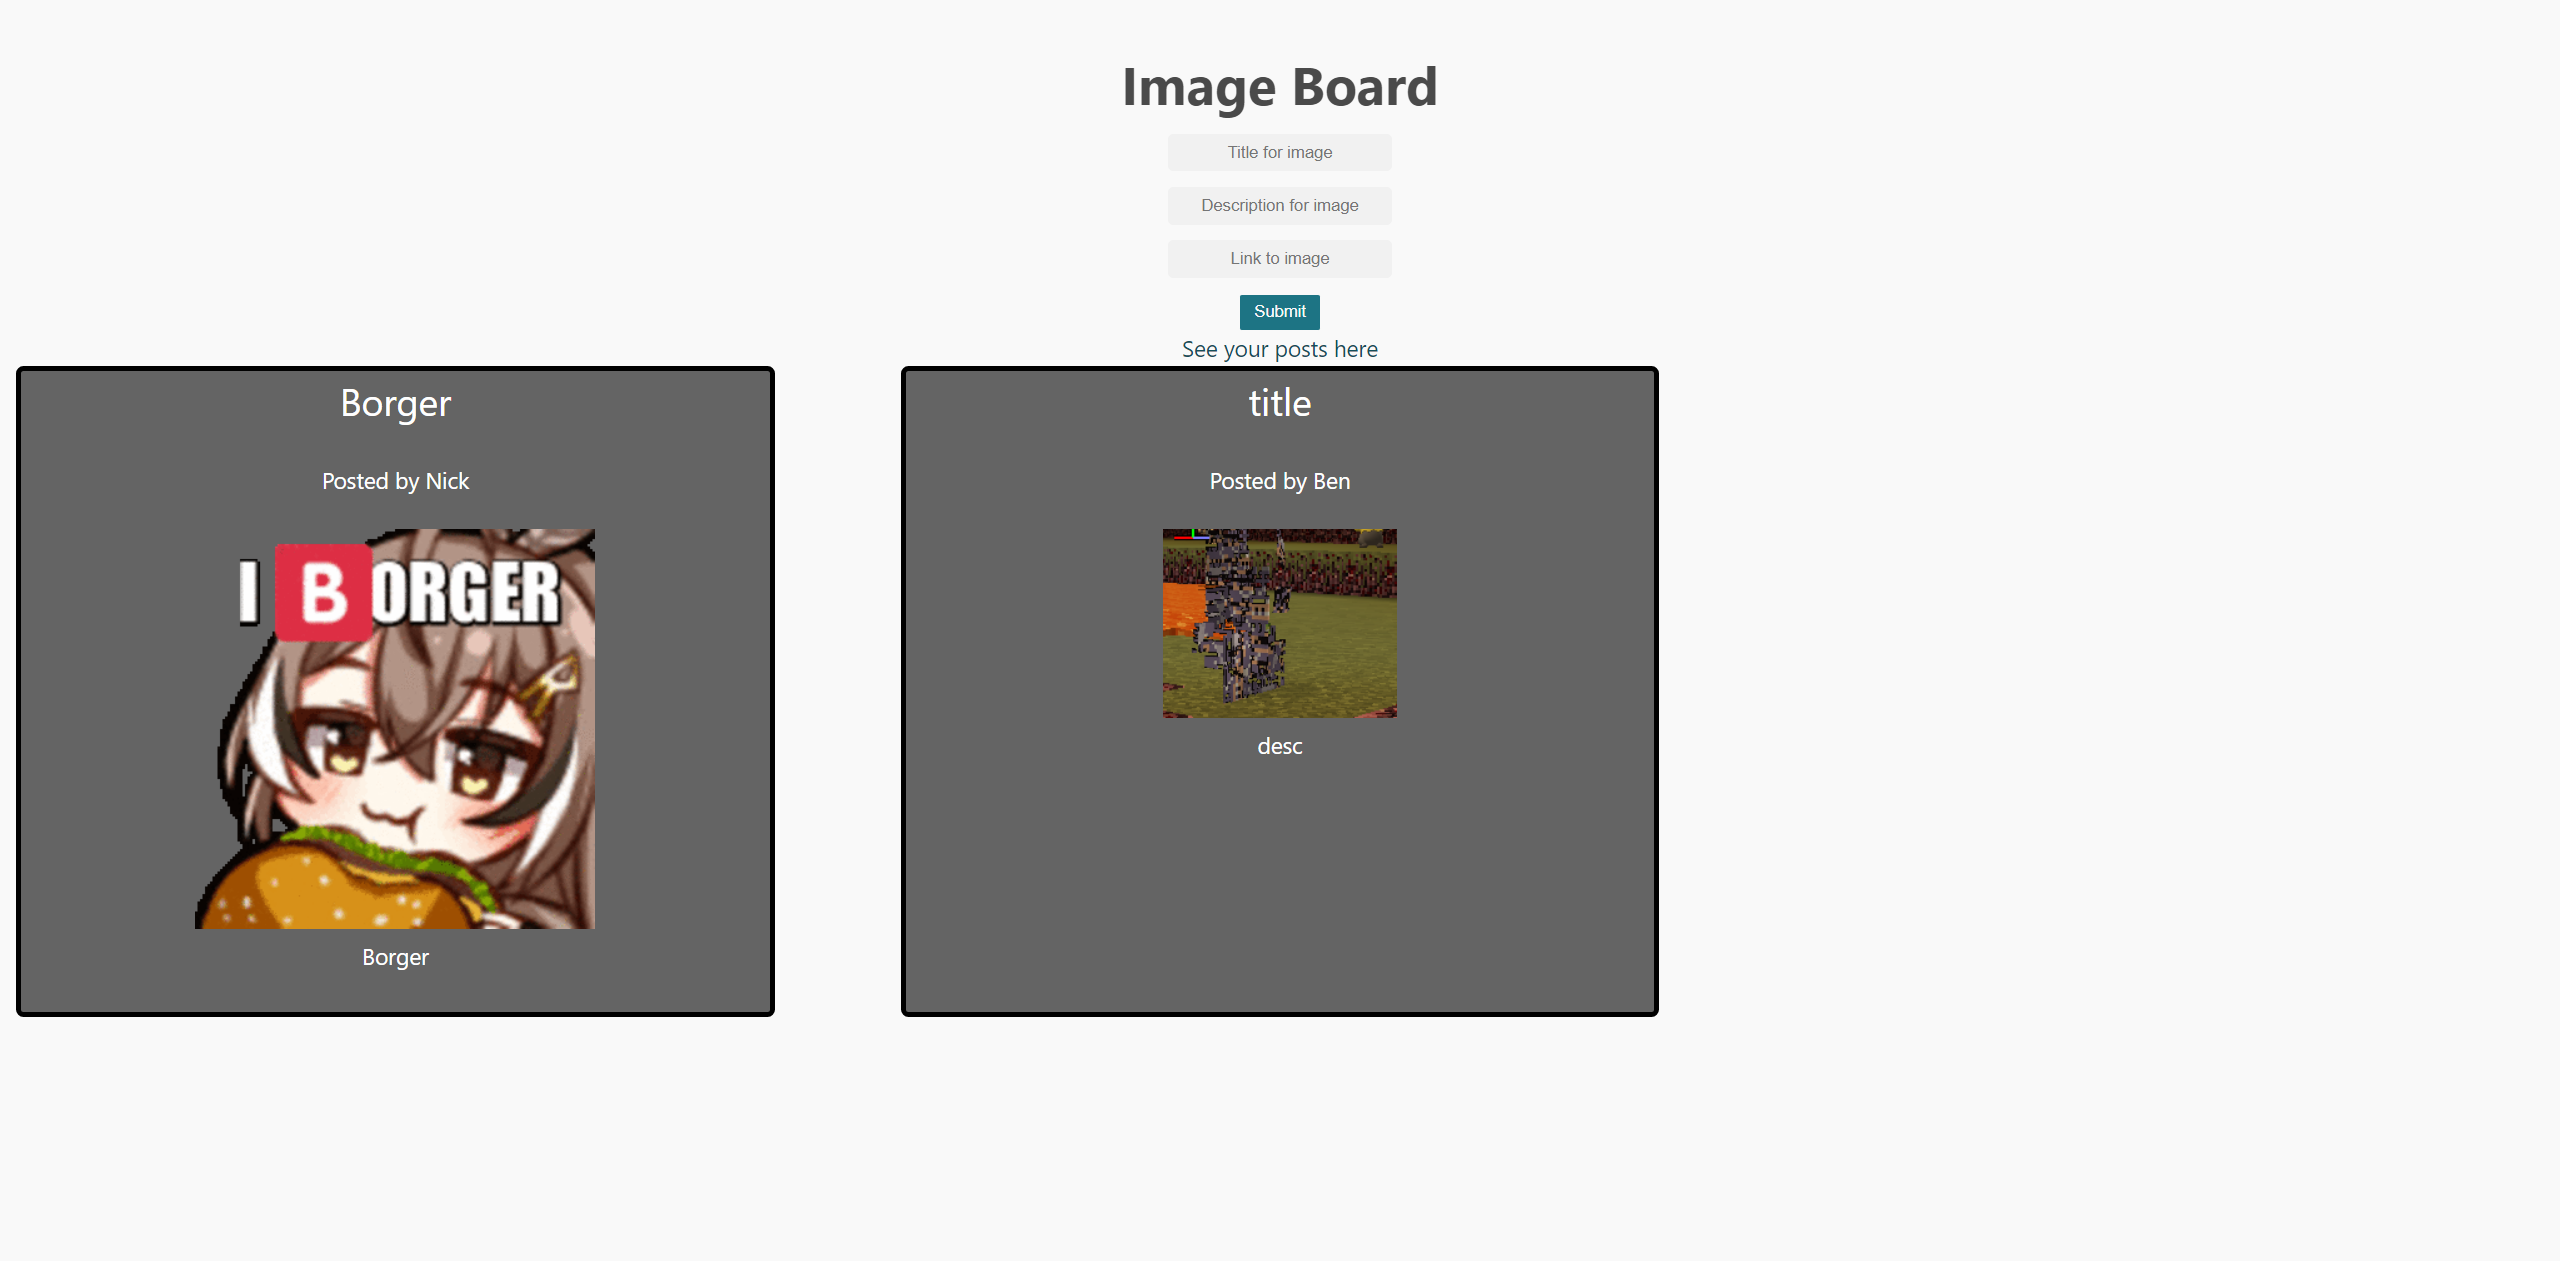
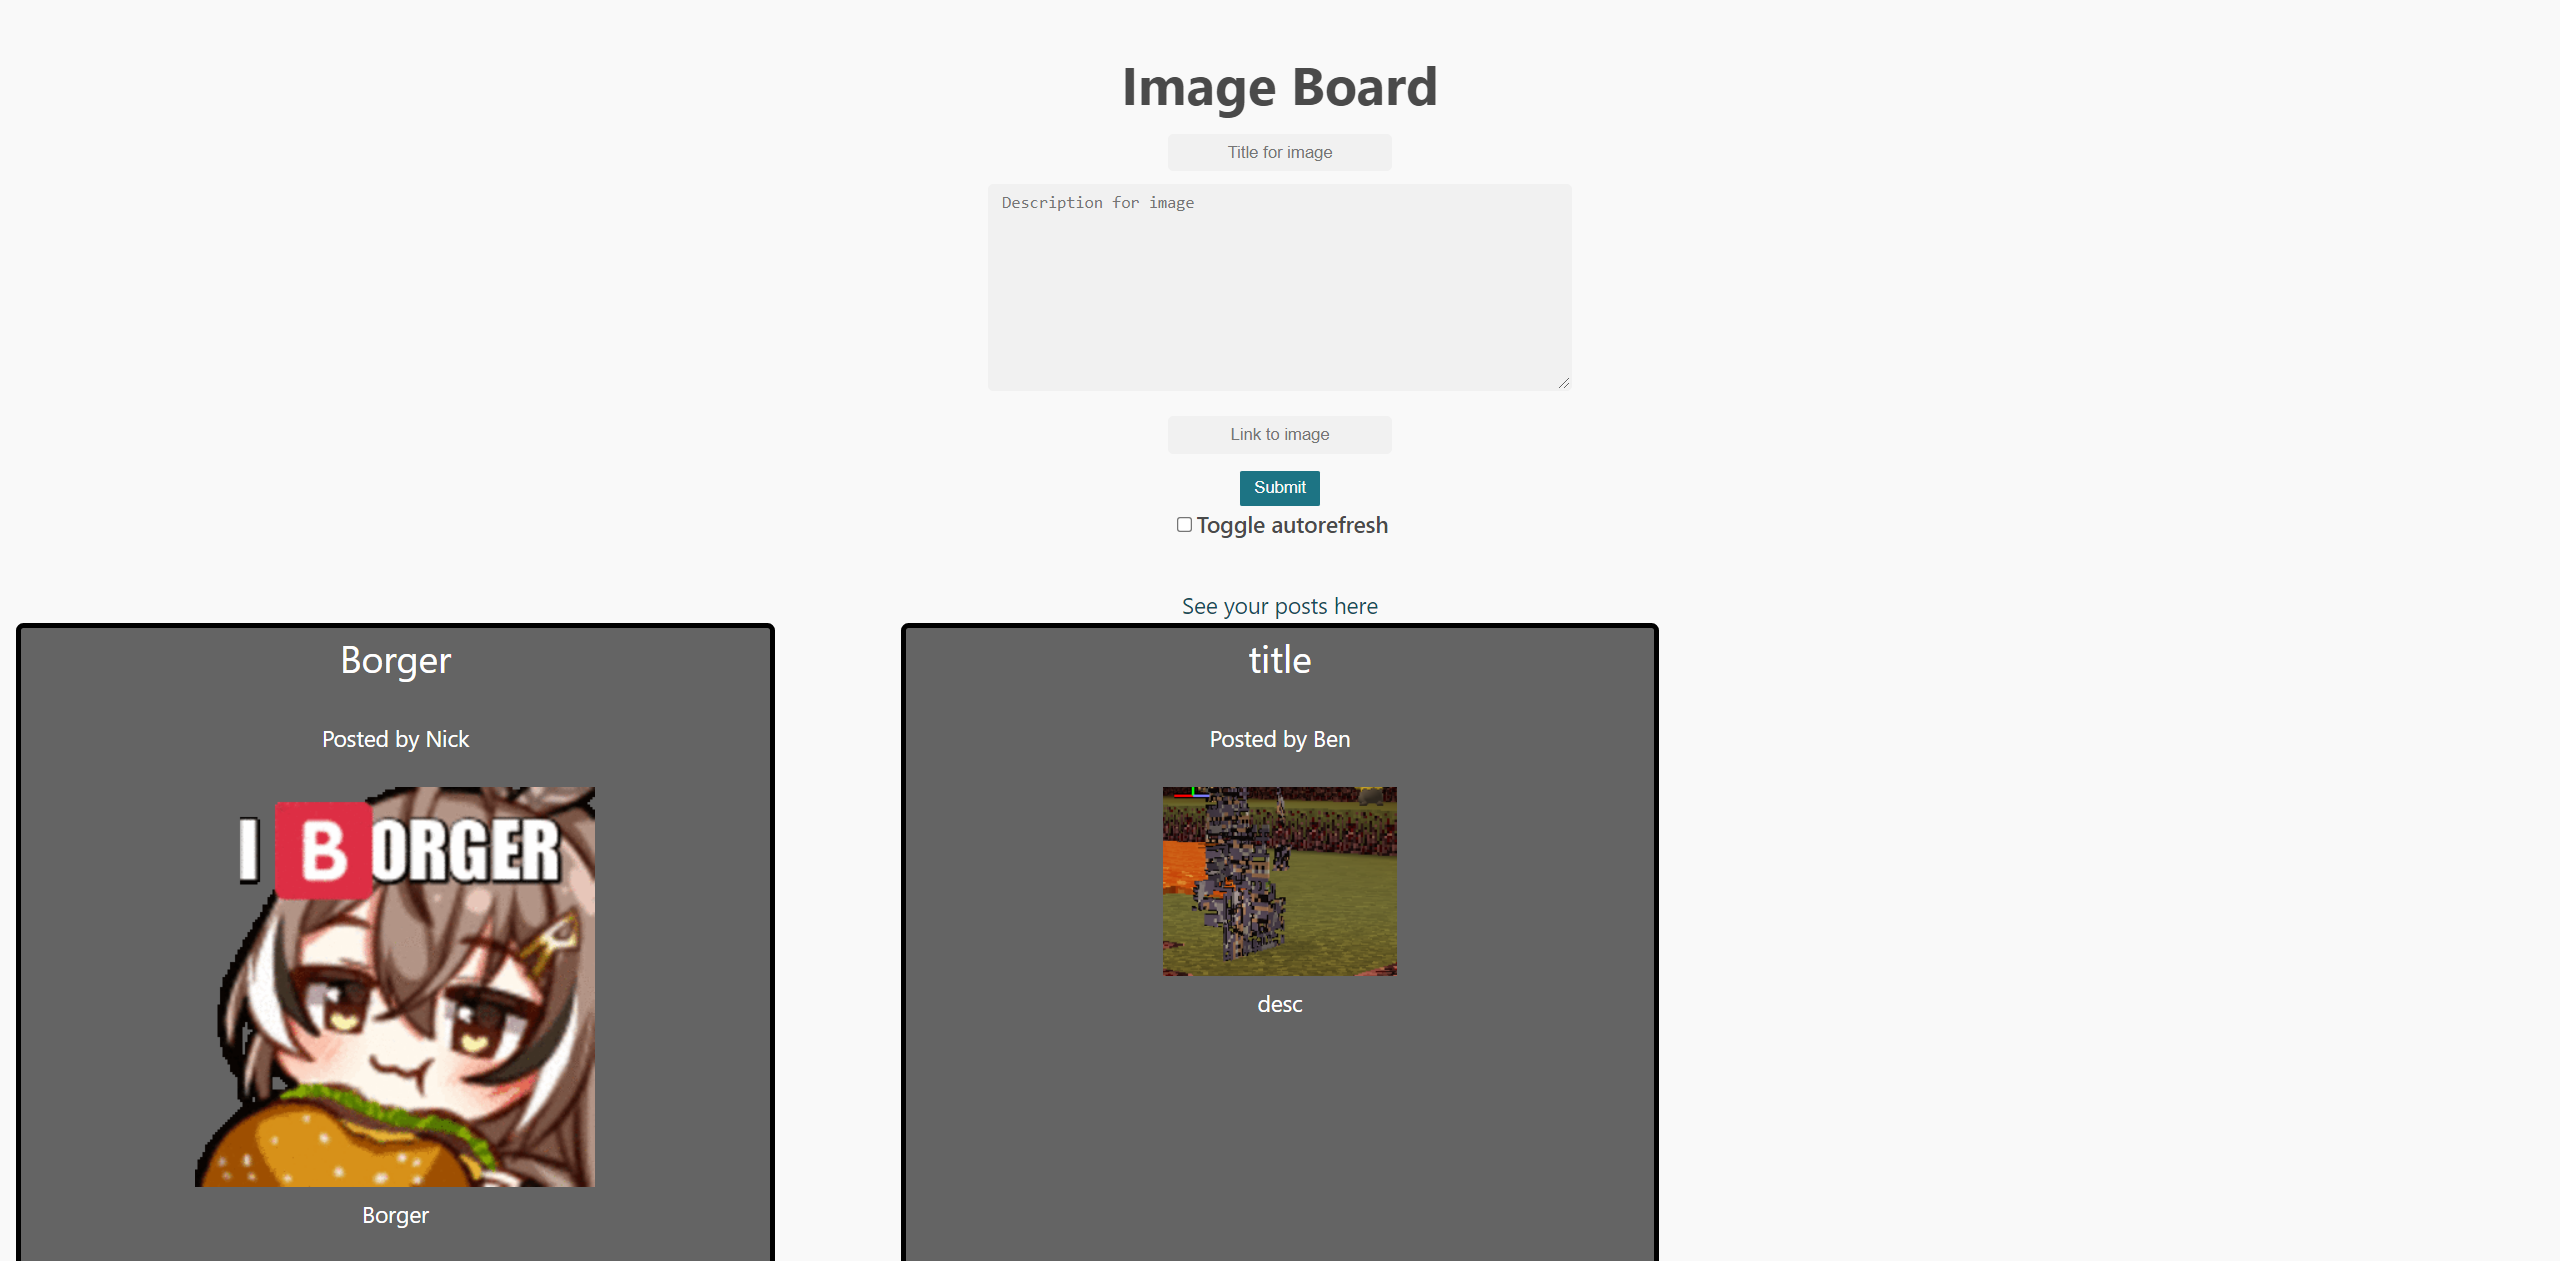
added toggle for refresh

Changed region(s): [[0.0, 0.2784, 0.3125, 1.0], [0.3438, 0.2165, 0.6562, 1.0], [0.4062, 0.1546, 0.5312, 0.1856]]

diff --git a/public/js/scripts.js b/public/js/scripts.js
@@ -39,6 +39,8 @@ window.onload = function() {
     updateImage();
     const button = document.querySelector( 'button' )
     button.onclick = submit
+    const toggleUpdate = document.querySelector('#toggleUpdate')
+    toggleUpdate.onclick = autoUpdate
   }
 
 
@@ -82,5 +84,13 @@ function resetForm() {
   document.getElementById('submitForm').reset();
 }
 
-setInterval(updateImage, 2000);
+let update = setInterval(updateImage, 2000);
 
+const autoUpdate = function (e) {
+  if (document.getElementById('toggleUpdate').checked === true) {
+    update = setInterval(updateImage, 2000);
+  }
+  else {
+    clearInterval(update)
+  }
+}

diff --git a/public/index.html b/public/index.html
@@ -21,6 +21,9 @@
       <br>
       <button onclick="resetForm()">Submit</button>
     </form>
+    <label for="toggleUpdate"><input type="checkbox" id="toggleUpdate" name="toggleUpdate" checked>Toggle autorefresh</label>
+    
+    <br>
     <a href="/myProfile.html">See your posts here</a>
     <div id="loadimages"></div>
   </body>
